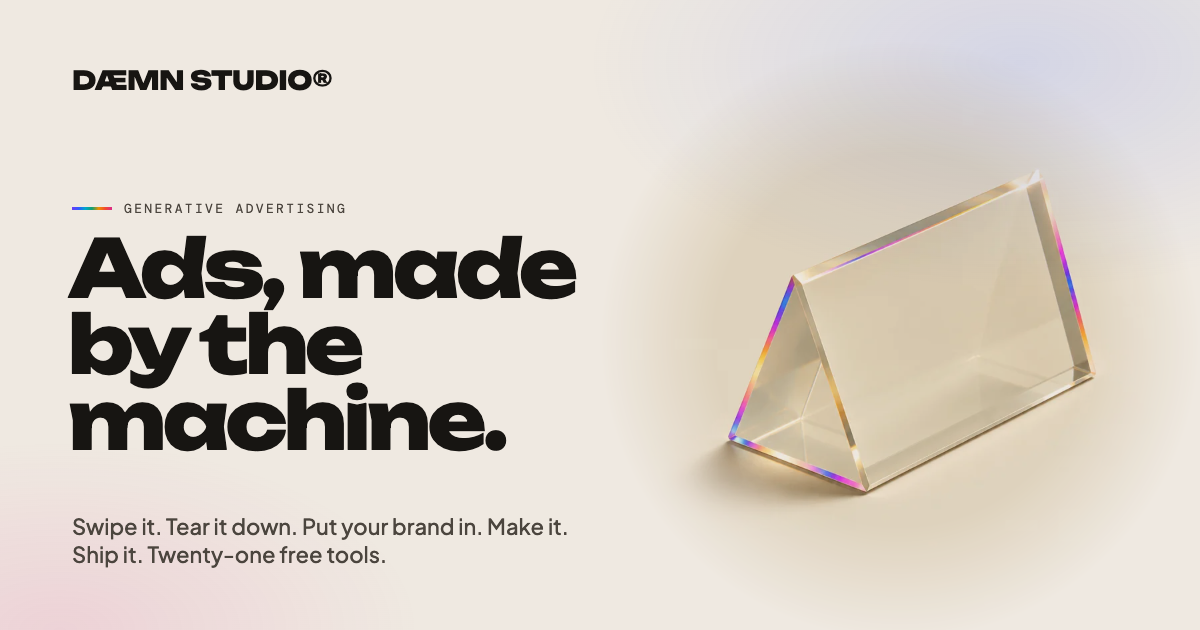
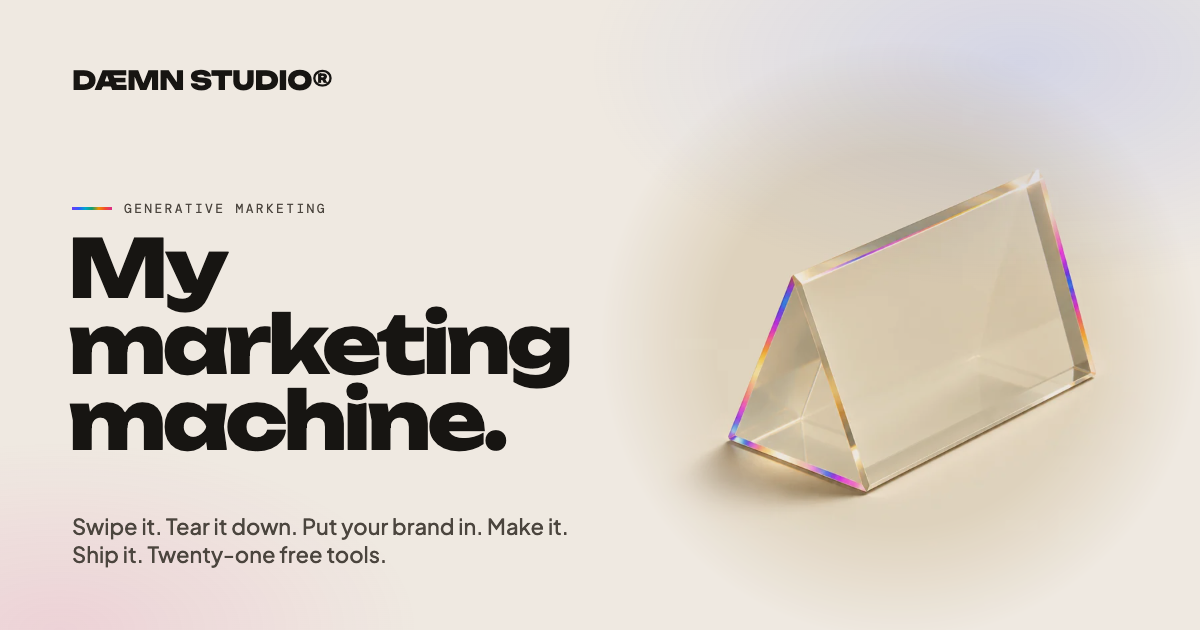
home: My marketing machine — Generative Marketing

Changed region(s): [[0.0617, 0.3619, 0.4933, 0.6333], [0.2467, 0.3016, 0.2775, 0.3317], [0.185, 0.3016, 0.2158, 0.3317]]

diff --git a/docs/index.html b/docs/index.html
@@ -3,8 +3,8 @@
 <meta charset="utf-8">
 <meta name="viewport" content="width=device-width,initial-scale=1,viewport-fit=cover">
 <meta name="theme-color" content="#EFE9E1">
-<meta name="description" content="DÆMN STUDIO — the full stack for generative advertising. Swipe what works, tear it down, put your brand in it, make the video, images, email and pages, ship. Twenty-one tools, free.">
-<title>DÆMN STUDIO® — ads, made by the machine</title>
+<meta name="description" content="DÆMN STUDIO — my marketing machine. The full stack for generative marketing. Swipe what works, tear it down, put your brand in it, make the video, images, email and pages, ship. Twenty-one tools, free.">
+<title>DÆMN STUDIO® — my marketing machine</title>
 <link rel="icon" href="/favicon.svg" type="image/svg+xml">
 <link rel="icon" href="/favicon.ico" sizes="32x32">
 <link rel="apple-touch-icon" href="/apple-touch-icon.png">
@@ -13,7 +13,7 @@
 <meta property="og:type" content="website">
 <meta property="og:site_name" content="DÆMN STUDIO®">
 <meta property="og:url" content="https://daemn.co/">
-<meta property="og:title" content="DÆMN STUDIO® — ads, made by the machine">
+<meta property="og:title" content="DÆMN STUDIO® — my marketing machine">
 <meta property="og:description" content="Swipe what already works. Tear it down. Put your brand in it. Make it. Ship it. Twenty-one free tools, one machine.">
 <meta property="og:image" content="https://daemn.co/media/share.png">
 <meta property="og:image:width" content="1200">
@@ -72,8 +72,8 @@
   </nav>
 
   <div class="mid"><div class="col">
-    <p class="eyebrow">DÆMN STUDIO · generative advertising</p>
-    <h1 class="rise">Ads, made by the machine.</h1>
+    <p class="eyebrow">Generative Marketing</p>
+    <h1 class="rise">My marketing machine.</h1>
     <p class="lede">Swipe what already works. Tear it down to its structure. Put your brand in it.
       Make the video, the images, the emails and the page. Ship it. Twenty-one free tools, one machine.</p>
     <div class="btns">
